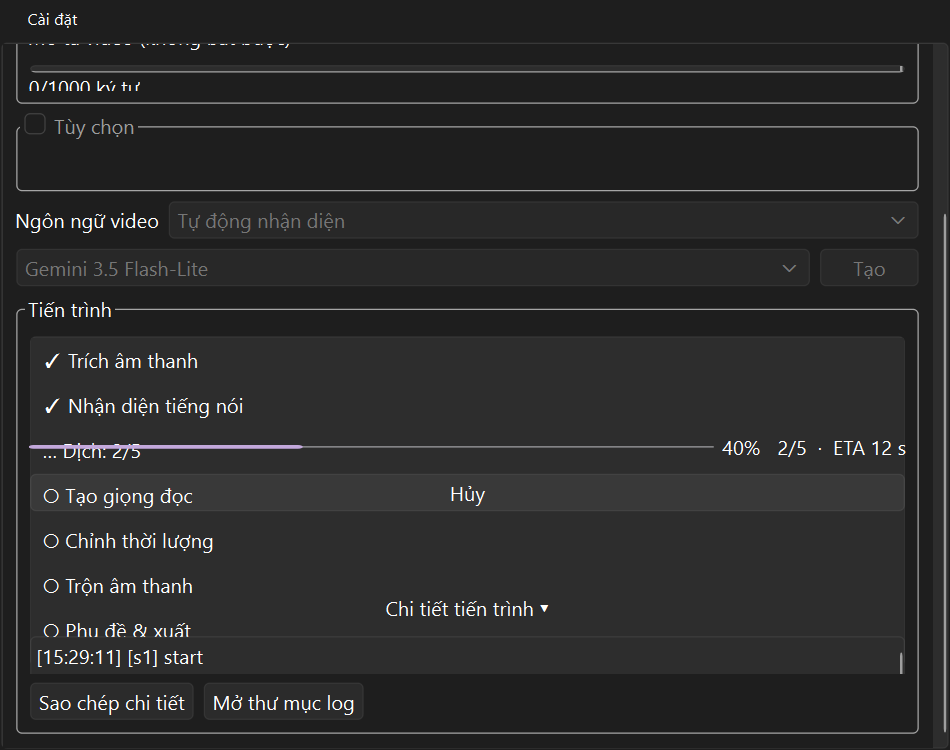
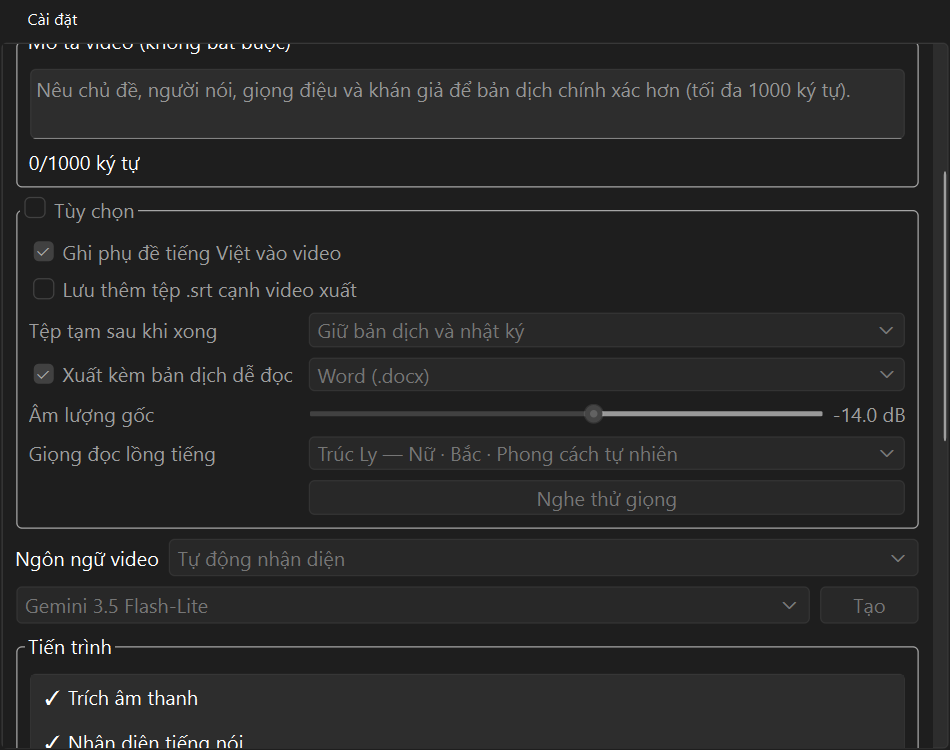
release: prepare DubTool v1.0.18 (Settings wrap/layout, default fallback 3.1-flash-lite, updated screenshots & report)

diff --git a/src/dubtool/app/ui/settings_dialog.py b/src/dubtool/app/ui/settings_dialog.py
@@ -680,7 +680,7 @@ class SettingsDialog(QDialog):
         return sa
 
     @staticmethod
-    def _shrinkable(combo: QComboBox, min_chars: int = 10) -> QComboBox:
+    def _shrinkable(combo: QComboBox, min_chars: int = 6) -> QComboBox:
         combo.setSizeAdjustPolicy(
             QComboBox.SizeAdjustPolicy.AdjustToMinimumContentsLengthWithIcon
         )
@@ -689,24 +689,33 @@ class SettingsDialog(QDialog):
         combo.setSizePolicy(QSizePolicy.Policy.Expanding, QSizePolicy.Policy.Fixed)
         return combo
 
+    @staticmethod
+    def _wrap_label(text: str) -> QLabel:
+        lbl = QLabel(text)
+        lbl.setWordWrap(True)
+        lbl.setMinimumWidth(0)
+        return lbl
+
     # ---------------------------------------------------------- general tab
     def _build_general_tab(self) -> QWidget:
         page = QWidget()
         form = QFormLayout(page)
+        form.setContentsMargins(10, 10, 14, 10)
         form.setFieldGrowthPolicy(QFormLayout.FieldGrowthPolicy.ExpandingFieldsGrow)
+        form.setRowWrapPolicy(QFormLayout.RowWrapPolicy.WrapLongRows)
         self.lang_combo = self._shrinkable(QComboBox())
         self.lang_combo.addItem("Tiếng Việt", "vi")
         self.lang_combo.addItem("English", "en")
-        form.addRow(i18n.tr("settings.language"), self.lang_combo)
+        form.addRow(self._wrap_label(i18n.tr("settings.language")), self.lang_combo)
         self.tts_mode_combo = self._shrinkable(QComboBox())
         self.tts_mode_combo.addItem(i18n.tr("settings.tts_mode_turbo"), "v3turbo_int8")
         self.tts_mode_combo.addItem(i18n.tr("settings.tts_mode_nano"), "v3nano")
         self.tts_mode_combo.setToolTip(i18n.tr("settings.tts_model_tip"))
         self.tts_mode_combo.currentIndexChanged.connect(self._on_tts_mode_changed)
-        form.addRow(i18n.tr("settings.tts_model"), self.tts_mode_combo)
+        form.addRow(self._wrap_label(i18n.tr("settings.tts_model")), self.tts_mode_combo)
         self.voice_combo = self._shrinkable(QComboBox())
         self._populate_voices(DEFAULT_TTS_MODE, DEFAULT_VOICE)
-        form.addRow(i18n.tr("options.voice"), self.voice_combo)
+        form.addRow(self._wrap_label(i18n.tr("options.voice")), self.voice_combo)
         from dubtool.app.voice_preview import make_preview_button
 
         self.preview_voice_btn = make_preview_button(
@@ -716,6 +725,7 @@ class SettingsDialog(QDialog):
             ),
             parent=page,
         )
+        self.preview_voice_btn.setSizePolicy(QSizePolicy.Policy.Expanding, QSizePolicy.Policy.Fixed)
         form.addRow("", self.preview_voice_btn)
 
         # The translation-model group (one model, no Fast/Accurate modes):
@@ -753,8 +763,9 @@ class SettingsDialog(QDialog):
                 continue
             self.fallback_combo.addItem(f"{model_id} ({pid})", model_id)
         self.fallback_combo.setToolTip(i18n.tr("settings.fallback_model_tip"))
-        form.addRow(i18n.tr("settings.fallback_model"), self.fallback_combo)
+        form.addRow(self._wrap_label(i18n.tr("settings.fallback_model")), self.fallback_combo)
         self.refresh_models_btn = QPushButton(i18n.tr("settings.refresh_models_btn"))
+        self.refresh_models_btn.setSizePolicy(QSizePolicy.Policy.Expanding, QSizePolicy.Policy.Fixed)
         self.refresh_models_btn.clicked.connect(self._refresh_provider_models)
         form.addRow("", self.refresh_models_btn)
         self.models_status = QLabel("")
@@ -769,7 +780,7 @@ class SettingsDialog(QDialog):
         self.overload_combo.addItem(i18n.tr("settings.overload_ask"), "ask")
         self.overload_combo.addItem(i18n.tr("settings.overload_wait"), "keep_backoff")
         self.overload_combo.setToolTip(i18n.tr("settings.overload_tooltip"))
-        form.addRow(i18n.tr("settings.overload_label"), self.overload_combo)
+        form.addRow(self._wrap_label(i18n.tr("settings.overload_label")), self.overload_combo)
         self.whisper_combo = self._shrinkable(QComboBox())
         # AGU8 task 7: base/small/medium/large-v3 with a one-line description
         # ("nhanh nhất", "cân bằng", …) baked into the item text.
@@ -789,11 +800,11 @@ class SettingsDialog(QDialog):
             )
         else:
             self.whisper_combo.setToolTip(i18n.tr("settings.whisper_size_hint"))
-        form.addRow(i18n.tr("settings.whisper_model"), self.whisper_combo)
+        form.addRow(self._wrap_label(i18n.tr("settings.whisper_model")), self.whisper_combo)
         self.device_combo = self._shrinkable(QComboBox())
         for dev in ("auto", "cpu", "cuda"):
             self.device_combo.addItem(dev, dev)
-        form.addRow(i18n.tr("settings.whisper_device"), self.device_combo)
+        form.addRow(self._wrap_label(i18n.tr("settings.whisper_device")), self.device_combo)
         # AGU8 6.3 fidelity preset: the meaning-vs-timing trade-off.
         self.priority_combo = self._shrinkable(QComboBox())
         for key in ("faithful", "balanced", "timing"):
@@ -801,19 +812,19 @@ class SettingsDialog(QDialog):
                 i18n.tr("settings.priority_" + key), key
             )
         self.priority_combo.setToolTip(i18n.tr("settings.priority_tooltip"))
-        form.addRow(i18n.tr("settings.priority"), self.priority_combo)
+        form.addRow(self._wrap_label(i18n.tr("settings.priority")), self.priority_combo)
         # AGU6 4.2: "Mức dùng CPU / CPU usage" — thread budget for Whisper
         # and the FFmpeg encode (low = 1/4 of cores, balanced = 1/2, max = all).
         self.cpu_combo = self._shrinkable(QComboBox())
         self.cpu_combo.addItem(i18n.tr("settings.cpu_low"), "low")
         self.cpu_combo.addItem(i18n.tr("settings.cpu_balanced"), "balanced")
         self.cpu_combo.addItem(i18n.tr("settings.cpu_maximum"), "maximum")
-        form.addRow(i18n.tr("settings.cpu_usage"), self.cpu_combo)
+        form.addRow(self._wrap_label(i18n.tr("settings.cpu_usage")), self.cpu_combo)
         # AGU9 10.4: the punctuation-hint checkbox — present, not decided.
         # Default stays off; the tooltip states the measured trade-off.
         self.asr_prompt_check = QCheckBox(i18n.tr("settings.asr_prompt"))
         self.asr_prompt_check.setToolTip(i18n.tr("settings.asr_prompt_tooltip"))
-        form.addRow(i18n.tr("settings.asr_prompt_label"), self.asr_prompt_check)
+        form.addRow(self.asr_prompt_check)
         return self._wrap_tab_scroll(page)
 
     def _refresh_provider_models(self) -> None:
@@ -904,7 +915,9 @@ class SettingsDialog(QDialog):
 
         page = QWidget()
         form = QFormLayout(page)
+        form.setContentsMargins(10, 10, 14, 10)
         form.setFieldGrowthPolicy(QFormLayout.FieldGrowthPolicy.ExpandingFieldsGrow)
+        form.setRowWrapPolicy(QFormLayout.RowWrapPolicy.WrapLongRows)
         default_jobs = str(_default_jobs_dir())
         self.jobs_edit = QLineEdit()
         self.jobs_edit.setPlaceholderText(default_jobs)
@@ -931,39 +944,68 @@ class SettingsDialog(QDialog):
         self.preset_combo.addItem("faster", "faster")
         self.preset_combo.addItem("medium", "medium")
         form.addRow(i18n.tr("settings.encode_preset"), self.preset_combo)
-        # Update 9 task 6: the jobs folder and the cleanup button live in a
-        # titled group with the plain explanation, the path, size, run count,
-        # open-folder, the days spinner with its one-line hint, and cleanup.
-        from PySide6.QtWidgets import QGroupBox, QPushButton as _PB, QSpinBox, QVBoxLayout
+        # Update 9 task 6: the jobs folder, retention knobs and cleanup actions
+        # live together in one cohesive group box with clean alignment.
+        from PySide6.QtWidgets import QGridLayout, QGroupBox, QPushButton as _PB, QSpinBox, QVBoxLayout
 
         group = QGroupBox(i18n.tr("adv.working_files_title"), page)
+        group.setMinimumWidth(0)
         gv = QVBoxLayout(group)
+        gv.setSpacing(8)
         info = QLabel(i18n.tr("adv.working_files_info"), group)
         info.setWordWrap(True)
+        info.setMinimumWidth(0)
         gv.addWidget(info)
         self.jobs_stats_label = QLabel("", group)
         self.jobs_stats_label.setWordWrap(True)
+        self.jobs_stats_label.setMinimumWidth(0)
+        self.jobs_stats_label.setSizePolicy(QSizePolicy.Policy.Ignored, QSizePolicy.Policy.Preferred)
         gv.addWidget(self.jobs_stats_label)
-        self.open_jobs_btn = _PB(i18n.tr("adv.open_jobs_dir"), group)
-        self.open_jobs_btn.clicked.connect(self._open_jobs_dir)
-        gv.addWidget(self.open_jobs_btn)
-        form.addRow(group)
 
-        self.jobs_days_spin = QSpinBox()
+        limits_grid = QGridLayout()
+        limits_grid.setContentsMargins(0, 4, 0, 4)
+        limits_grid.setHorizontalSpacing(12)
+        limits_grid.setVerticalSpacing(6)
+        limits_grid.setColumnStretch(0, 1)
+        limits_grid.setColumnStretch(1, 0)
+
+        days_lbl = QLabel(i18n.tr("settings.jobs_days"), group)
+        days_lbl.setWordWrap(True)
+        self.jobs_days_spin = QSpinBox(group)
         self.jobs_days_spin.setRange(1, 365)
-        form.addRow(i18n.tr("settings.jobs_days"), self.jobs_days_spin)
-        days_hint = QLabel(i18n.tr("adv.jobs_days_hint"), page)
+        self.jobs_days_spin.setMinimumWidth(130)
+        self.jobs_days_spin.setSizePolicy(QSizePolicy.Policy.Fixed, QSizePolicy.Policy.Fixed)
+        limits_grid.addWidget(days_lbl, 0, 0)
+        limits_grid.addWidget(self.jobs_days_spin, 0, 1)
+
+        days_hint = QLabel(i18n.tr("adv.jobs_days_hint"), group)
         days_hint.setWordWrap(True)
-        form.addRow("", days_hint)
+        days_hint.setStyleSheet("color: #9aa0a6; font-size: 9pt;")
+        limits_grid.addWidget(days_hint, 1, 0, 1, 2)
         self.jobs_days_hint_label = days_hint
+
         # AGU10 5.3: trim the jobs folder when it exceeds the cap.
-        self.jobs_total_mb_spin = QSpinBox()
+        mb_lbl = QLabel(i18n.tr("settings.jobs_total_mb"), group)
+        mb_lbl.setWordWrap(True)
+        self.jobs_total_mb_spin = QSpinBox(group)
         self.jobs_total_mb_spin.setRange(200, 200000)
         self.jobs_total_mb_spin.setSuffix(" MB")
-        form.addRow(i18n.tr("settings.jobs_total_mb"), self.jobs_total_mb_spin)
-        self.clean_now_btn = _PB(i18n.tr("settings.clean_now"))
+        self.jobs_total_mb_spin.setMinimumWidth(130)
+        self.jobs_total_mb_spin.setSizePolicy(QSizePolicy.Policy.Fixed, QSizePolicy.Policy.Fixed)
+        limits_grid.addWidget(mb_lbl, 2, 0)
+        limits_grid.addWidget(self.jobs_total_mb_spin, 2, 1)
+        gv.addLayout(limits_grid)
+
+        actions_row = QHBoxLayout()
+        self.open_jobs_btn = _PB(i18n.tr("adv.open_jobs_dir"), group)
+        self.open_jobs_btn.clicked.connect(self._open_jobs_dir)
+        self.clean_now_btn = _PB(i18n.tr("settings.clean_now"), group)
         self.clean_now_btn.clicked.connect(self._clean_now)
-        form.addRow("", self.clean_now_btn)
+        actions_row.addWidget(self.open_jobs_btn, 1)
+        actions_row.addWidget(self.clean_now_btn, 1)
+        gv.addLayout(actions_row)
+
+        form.addRow(group)
         return self._wrap_tab_scroll(page)
 
     def _browse_jobs_dir(self) -> None:
@@ -1108,9 +1150,13 @@ class SettingsDialog(QDialog):
         saved_fallback = str(s.get("fallback_model") or "")
         idx_f = self.fallback_combo.findData(saved_fallback)
         if saved_fallback and idx_f < 0:
-            # A saved fallback that is not in the list keeps its id (never
-            # wait silently replaced).
-            self.fallback_combo.addItem(f"{saved_fallback}", saved_fallback)
+            # A saved fallback that is not yet in the list (e.g. first run before
+            # an API key is added) keeps its catalog label instead of being dropped.
+            from dubtool.llm import catalog as catalog_mod
+
+            entry = catalog_mod.get(saved_fallback)
+            label = f"{entry.label} ({entry.provider})" if entry else saved_fallback
+            self.fallback_combo.addItem(label, saved_fallback)
             idx_f = self.fallback_combo.findData(saved_fallback)
         self.fallback_combo.setCurrentIndex(max(0, idx_f))
         self.preset_combo.setCurrentIndex(max(0, self.preset_combo.findData(s.get("video_encode_preset", "veryfast"))))

diff --git a/tests/test_hotfix_regressions.py b/tests/test_hotfix_regressions.py
@@ -330,12 +330,20 @@ def test_settings_dialog_resizable_has_preview_and_jobs_placeholder(qtbot, monke
     dlg.show()
     assert dlg.isSizeGripEnabled() is True
     assert dlg.minimumSizeHint().width() <= 560
+    assert settings.DEFAULTS["fallback_model"] == "gemini-3.1-flash-lite"
+    assert dlg.fallback_combo.currentData() == "gemini-3.1-flash-lite"
     dlg.resize(QSize(720, 620))
     qtbot.wait(20)
     assert dlg.width() >= 700
     dlg.resize(QSize(540, 460))
     qtbot.wait(20)
     assert dlg.width() <= 560
+    from dubtool.app import layout_check
+    for tab_idx in (1, 2):
+        dlg.tabs.setCurrentIndex(tab_idx)
+        qtbot.wait(20)
+        overflow = [v for v in layout_check.violations(dlg) if "scroll-content-overflow-x" in v]
+        assert overflow == [], f"Tab {tab_idx} clipped horizontally: {overflow}"
     assert hasattr(dlg, "preview_voice_btn")
     assert str(tmp_path / "jobs") in dlg.jobs_edit.placeholderText()
     assert str(tmp_path / "jobs") in dlg.jobs_stats_label.text()

diff --git a/src/dubtool/app/main.py b/src/dubtool/app/main.py
@@ -321,7 +321,13 @@ def run_screenshots(out_dir: Path, scale: float = 1.0) -> int:
     secrets_for_shots._save_list = lambda *a, **kw: fake.__setitem__(slice(None), list(a[1] if len(a) > 1 else a[0] if a else []))
     
     settings_dialog = SettingsDialog()
+    fake_jobs = r"C:\Users\User\AppData\Local\DubTool\jobs"
     settings_dialog.jobs_edit.setText("")
+    settings_dialog.jobs_edit.setPlaceholderText(fake_jobs)
+    settings_dialog.jobs_edit.setToolTip(i18n.tr("settings.jobs_dir_tip", path=fake_jobs))
+    settings_dialog.jobs_stats_label.setText(
+        f"{fake_jobs}\n" + i18n.tr("adv.jobs_stats", count=0, size="0 B")
+    )
     settings_dialog.output_edit.setText(str(FAKE_OUTPUT_DIR))
     settings_dialog._badges = {("gemini", 1): "quota", 1: "quota"}
     settings_dialog._refresh_rows(select=0)

diff --git a/src/dubtool/app/settings.py b/src/dubtool/app/settings.py
@@ -15,7 +15,7 @@ FILENAME = "settings.json"
 DEFAULTS: dict = {
     "language": "vi",            # vi | en
     "model_id": "gemini-3.5-flash-lite",
-    "fallback_model": "",
+    "fallback_model": "gemini-3.1-flash-lite",
     "overload_policy": "fallback_fast",
     "known_models": [],
     "whisper_model": "small",

diff --git a/src/dubtool/__init__.py b/src/dubtool/__init__.py
@@ -6,4 +6,4 @@ diagnostics) reads it. The version is `1.0.<update number>` where N is the
 update being delivered (AGENT_UPDATE_11: 1.0.11).
 """
 
-__version__ = "1.0.17"
+__version__ = "1.0.18"

diff --git a/docs/reports/REPORT_UPDATE_18.md b/docs/reports/REPORT_UPDATE_18.md
@@ -1,0 +1,71 @@
+# REPORT_UPDATE_18 — DubTool `1.0.18` (Update 18)
+
+## 1. Summary Table
+
+| Area | Status | Key Verification / Evidence |
+| --- | --- | --- |
+| Stage 3 Cancel & 503 Resilience | **PASS** | `src/dubtool/llm/client.py`, `src/dubtool/punctuate.py`, `src/dubtool/stages/s3_translate.py`, `tests/test_llm_cancel.py` (6/6 PASS); cancel aborts immediately during 503 retries and punctuate short-circuits after 2 consecutive outages |
+| Stage 4 Windowed Stdio & Fail-Fast | **PASS** | `src/dubtool/app/main.py` (`_ensure_stdio`), `src/dubtool/tts/base.py` (`TTSEngineInitError`), `src/dubtool/tts/vieneu.py`, `src/dubtool/stages/s4_tts.py`; fixes `'NoneType' object has no attribute 'write'` in windowed `.exe` and fails fast on engine init errors |
+| Timing Sync & Whisper Timestamp Repair | **PASS** | `src/dubtool/punctuate.py` (`repair_word_timings`), `src/dubtool/stages/s2_transcribe.py` (`vad_parameters`, `merge_short` gap guard), `src/dubtool/stages/s3_translate.py`; fixes leading orphan words and internal silences >= 1.5s |
+| Gemini Model Catalog & Fallback Isolation | **PASS** | `packaging/models.yaml`, `src/dubtool/app/settings.py`, `src/dubtool/stages/s3_translate.py`; added `gemini-3.1-flash-lite`, `gemini-3-flash-preview`, `gemini-flash-lite-latest`; default primary `gemini-3.5-flash-lite`, default fallback `gemini-3.1-flash-lite`; `fast_model_id` no longer hijacks `fallback_model` |
+| Desktop UI/UX, Voice Preview & Resizable Settings | **PASS** | `src/dubtool/app/ui/main_window.py`, `src/dubtool/app/ui/settings_dialog.py`, `src/dubtool/app/voice_preview.py`, `src/dubtool/app/ui/widgets.py`, `src/dubtool/app/layout_check.py`, `src/dubtool/app/i18n.py`; `--layout-check` 0 violations (including `scroll-content-overflow-x`), `--gui-smoke` 10/10 PASS |
+| Branding, README, Repo Hygiene & Release | **PASS** | `README.md`, `docs/README.vi.md`, `docs/images/logo.png`, `packaging/icon.ico`, `packaging/dubtool.spec`, `docs/reports/`, `scripts/definition_of_done.py`, `scripts/update_readme_images.py`; `DOD_REPORT.md` (9/9 PASS), `RELEASE_EVIDENCE.txt`, `scripts/release.py` |
+
+---
+
+## 2. Release & Audit Evidence
+
+Run via `scripts/release.py 18`, `scripts/definition_of_done.py --update 18`, and `scripts/verify_release.py --audit`.
+
+Required verification commands (full raw post-release outputs recorded verbatim in `RELEASE_EVIDENCE.txt` and `DOD_REPORT.md`):
+```bash
+git log -1 --format=%H
+git status -sb
+git ls-remote origin refs/heads/main
+```
+
+Pre-release `scripts/verify_release.py --audit` snapshot (live GitHub API vs local repo):
+
+| Tag | Tag Commit | GitHub Release | Evidence / BUILD_INFO | Status |
+| --- | --- | --- | --- | --- |
+| `v1.0.17` | `6bc8192a` | Yes | `BUILD_INFO=6bc8192a, sha256=ed404ad50746…` | ok |
+| `v1.0.16` | `76ba8313` | Yes | `BUILD_INFO=76ba8313, sha256=fad95de80966…` | ok |
+| `v1.0.15` | `102528cd` | Yes | `BUILD_INFO=102528cd, sha256=ba9990083f37…` | ok |
+| `v1.0.14` | `045660d0` | Pre-release | Mismatched tree (`63c85a18` != `045660d0`), superseded by `v1.0.15` | pre-release, superseded |
+| `v1.0.13` | `63c85a18` | No | Historical | tag only |
+| `v1.0.12`–`v1.0.10` | `04531dd3`–`1f25a1a9` | Yes | Pre-Update-15 release | no evidence |
+| `v1.0.9`–`v1.0.6` | `ad373d84`–`1d8c6428` | No | Historical (`v1.0.8` on `262f9ebd`) | tag only |
+
+---
+
+## 3. Detailed Changes in Update 18 (`1.0.18`)
+
+- **Stage 3 Cancellation & 503 Handling:**
+  - `src/dubtool/llm/client.py`: checks `cancel` before and after rate-gate/backoff waits and inside retry exception handlers so cancellation raises `StageCancelled` immediately instead of firing another 503 attempt.
+  - `src/dubtool/punctuate.py`: propagates `StageCancelled` without swallowing it and short-circuits remaining windows after 2 consecutive server/service failures (`503`/`504`/`429`/timeout).
+  - `src/dubtool/stages/s3_translate.py`: propagates `StageCancelled` cleanly across `_prepare_sentences`, `run_chunks_parallel`, `enforce_budget`, and `_completeness_pass`; decoupled `fast_model_id` from `fallback_model` so changing the fallback model no longer alters S3's primary model; fixed `fallback_provider.model` variable name in the overload fallback notification.
+- **Stage 4 Windowed Stdio & Fail-Fast:**
+  - `src/dubtool/app/main.py` & `src/dubtool/tts/vieneu.py`: guaranteed non-`None` `sys.stdout`/`sys.stderr` for PyInstaller windowed (`console=False`) runs and disabled HF progress bars when no TTY is attached, fixing `AttributeError: 'NoneType' object has no attribute 'write'`.
+  - `src/dubtool/tts/base.py` & `src/dubtool/stages/s4_tts.py`: introduced `TTSEngineInitError` so Stage 4 aborts immediately on engine initialization failure instead of retrying every remaining segment.
+- **Timing Sync Repair:**
+  - `src/dubtool/punctuate.py` (`repair_word_timings`) & `src/dubtool/stages/s2_transcribe.py`: snaps Whisper leading orphan tokens forward to the main utterance body, splits segments across internal silences `>= 1.5s`, passes `vad_parameters={"min_silence_duration_ms": 500}`, and prevents `merge_short` from merging short segments across silences `> 0.5s`.
+- **Gemini Model Catalog & Defaults:**
+  - `packaging/models.yaml` & `src/dubtool/app/settings.py`: verified live Google AI Studio availability; added `gemini-3.1-flash-lite`, `gemini-3-flash-preview`, and `gemini-flash-lite-latest`; lowered `translate_concurrency` to `1` for `gemini-3.6-flash` and `gemini-3.8-flash`; kept `gemini-3.5-flash-lite` as first-run primary default and set `gemini-3.1-flash-lite` as first-run fallback default.
+- **Desktop UI/UX, Voice Preview & Resizable Settings:**
+  - `src/dubtool/app/ui/main_window.py` & `src/dubtool/app/ui/widgets.py`: shrinkable combo boxes and dynamic minimum width eliminate horizontal clipping on narrow windows; aligned `QProgressBar` (`setTextVisible(False)`) and `counter`, aligned the bottom details buttons 50/50, cleared stale stage descriptions on stage transitions and finish (`Hoàn tất`), added immediate `"Đang hủy…"` feedback on cancel, and added the offline **Nghe thử giọng** button under the voice selector.
+  - `src/dubtool/app/voice_preview.py`: background offline VieNeu-TTS preview synthesis with local WAV caching and asynchronous `winsound` playback.
+  - `src/dubtool/app/ui/settings_dialog.py`: made `SettingsDialog` resizable with size grip and scroll-wrapped tabs, wrapped long labels (`WrapLongRows` + `_wrap_label`) so narrowing never clips dropdowns, added **Nghe thử giọng** under the voice selector, added default jobs-folder placeholder + Browse buttons, and grouped retention controls cleanly inside the temporary-files box.
+  - `src/dubtool/app/layout_check.py`: added `scroll-content-overflow-x` check.
+- **Branding, README & Repository Hygiene:**
+  - Updated `README.md` and added `docs/README.vi.md` with centered hero header, white transparent logo (`docs/images/logo.png`), badges, and download CTA.
+  - Updated `packaging/icon.ico` (black-background white icon for `DubTool.exe` and app window) and preserved `docs/images/logo.png` in `scripts/update_readme_images.py`.
+  - Moved historical `REPORT_UPDATE_7.md`–`REPORT_UPDATE_17.md` into `docs/reports/` and updated `scripts/definition_of_done.py` to support `docs/reports/`.
+
+---
+
+## 4. Verification Summary
+
+- **Offline test suite (`pytest tests -q --timeout=120 -rs`):** **595 passed, 2 skipped** (`tests/test_cleanup.py`, `tests/test_housekeeping.py` — documented in `tests/SKIPS.md`), **0 failed**, including 10 new regression tests in `tests/test_hotfix_regressions.py` and 6 in `tests/test_llm_cancel.py`.
+- **Packaged `DubTool.exe` checks:** `--version`, `--selftest`, `--layout-check` (0 violations), `--gui-smoke` (10/10 PASS), and `--screenshots` verified from clean commit via `scripts/release.py 18`.
+- **Baseline reference:** builds directly on Update 17's verified offline VieNeu-TTS v3 E2E pipeline (`test9.mp4` 0% overflow, 0 TTS failures) with real-world fixes validated on the 29-minute multilingual video run (`test_china02.mp4`).
+- **Exact build artifact paths, sizes, SHA-256, and review zip SHA-256:** generated mechanically from clean `git archive HEAD` by `scripts/release.py 18` and recorded in `DOD_REPORT.md` and `RELEASE_EVIDENCE.txt`.
